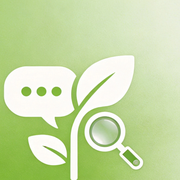
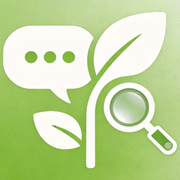
fix: centre the mark in its own frame, and put the full lockup on the auth screens
The mark sat low beside the wordmark because it was low: the exported
square had ten pixels of margin above the artwork and none below, the
stem clipped flush against the bottom edge. The square was cut out of the
source, so its size came from the mark's wider dimension and its bottom
edge ran into the wordmark, where it had to be clamped.

It is built on a transparent canvas now rather than cut out, which makes
the centring exact and independent of what happens to sit nearby in the
artwork. Both masks measure dead centre.

A speck of noise above the mark survived the opening — thicker than the
kernel, so thickness was the wrong test. Components below a minimum area
are dropped instead, which also tightened the lockup's bounds: it had
been reserving space for a dot of grain.

The auth screens get the whole lockup, wordmark and all, above the card.
They are the first thing anybody sees and the header is not on screen
until they are through it.

A mask has no intrinsic size, so the lockup's aspect ratio lives in the
stylesheet by hand. The script now prints the value it just produced,
because the two drift silently otherwise — the mask would simply
letterbox itself inside a box of the wrong shape.

diff --git a/web/src/screens/auth/AuthShell.tsx b/web/src/screens/auth/AuthShell.tsx
@@ -21,8 +21,17 @@ export function AuthShell({
   footer?: ReactNode;
 }) {
   return (
-    <main className="flex min-h-svh items-center justify-center p-6">
-      <Card className="w-full max-w-md">
+    <main className="grid min-h-svh place-items-center gap-6 p-6">
+      {/* The whole lockup, wordmark and all, above the card rather than inside it. These
+          screens are the first thing anybody sees, and until they sign in the header — the
+          only other place the logo appears — is not on screen, so this is where the
+          application gets to introduce itself.
+
+          Decorative: the wordmark is a picture of the word and the heading below is the
+          text. A screen reader should hear the application named once. */}
+      <span aria-hidden="true" className="logo-lockup w-48 shrink-0 self-end" />
+
+      <Card className="w-full max-w-md self-start">
         <CardHeader>
           {/* A real heading, not a styled div. It is the only h1 on the page and it is
               what a screen reader's heading navigation lands on. */}

diff --git a/web/src/styles/index.css b/web/src/styles/index.css
@@ -103,12 +103,25 @@
    So the PNG is used for its alpha alone and the colour comes from `currentColor` — the
    very dark green the light theme already uses for text, and the pale ink the dark theme
    uses. One asset, both themes, and it follows the palette if the palette changes. */
-.logo-mark {
+.logo-mark,
+.logo-lockup {
   background-color: currentColor;
-  mask-image: url("/logo-mark.png");
   mask-size: contain;
   mask-repeat: no-repeat;
   mask-position: center;
+}
+
+/* The mark alone, square, for places that sit beside a word already saying "Plantopia". */
+.logo-mark {
+  mask-image: url("/logo-mark.png");
+}
+
+/* Mark and wordmark together, as the artwork was drawn.
+   A mask has no intrinsic size, so the ratio lives here by hand and has to match the file.
+   `design/extract_logo_assets.py` prints the value to use whenever it regenerates. */
+.logo-lockup {
+  aspect-ratio: 640 / 604;
+  mask-image: url("/logo-lockup.png");
 }
 
 @theme inline {

diff --git a/design/extract_logo_assets.py b/design/extract_logo_assets.py
@@ -39,6 +39,10 @@ PUBLIC = ROOT / "web" / "public"
 # `np.flatnonzero((alpha > 0.5).any(axis=1))` is it.
 WORDMARK_TOP = 1285
 
+# The first row of the lettering itself. Between this and `WORDMARK_TOP` is empty
+# background, and the square above is allowed to reach into it but no further.
+WORDMARK_LETTERS = 1353
+
 # Below +8 on `g - b` a pixel is the mark; above +22 it is background; between the two it is
 # an edge, and the ramp is what keeps those edges smooth rather than jagged.
 NEUTRAL = 8.0
@@ -62,49 +66,125 @@ def silhouette(rgb: np.ndarray) -> np.ndarray:
     alpha[np.asarray(reachable)[1:-1, 1:-1] == 128] = 0
 
     # The pale corner is grainy, and grain that is not border-connected survives as speckle.
-    # An opening deletes anything thinner than the kernel; the mark's thinnest part, the
-    # stem, is far thicker.
+    # An opening deletes anything thinner than the kernel, which removes most of it.
     binary = Image.fromarray(((alpha > 0.35) * 255).astype(np.uint8), "L")
     opened = binary.filter(ImageFilter.MinFilter(9)).filter(ImageFilter.MaxFilter(9))
-    return alpha * (np.asarray(opened.filter(ImageFilter.MaxFilter(5))) > 127)
+    alpha = alpha * (np.asarray(opened.filter(ImageFilter.MaxFilter(5))) > 127)
+
+    # Most, not all: a speck thicker than the kernel outlives it, and one did — a dot of
+    # noise floating above the mark, which is visible on screen and quietly widens the crop
+    # around the artwork. Thickness is the wrong test for it; size is the right one. The
+    # wordmark's smallest piece is the dot on the "i", so the floor sits well below that.
+    return _drop_specks(alpha, min_area=alpha.size // 4000)
 
 
-def square_around_the_mark(alpha: np.ndarray, width: int, pad: int = 24) -> tuple[int, ...]:
-    """The smallest square holding the mark, so it keeps its proportions at any size."""
+def _drop_specks(alpha: np.ndarray, min_area: int) -> np.ndarray:
+    """Zero every run of ink smaller than `min_area` pixels."""
+    canvas = Image.fromarray(((alpha > 0.35) * 255).astype(np.uint8), "L")
+    pixels = np.asarray(canvas)
+
+    kept = np.zeros_like(pixels, dtype=bool)
+    while True:
+        remaining = np.argwhere(np.asarray(canvas) == 255)
+        if not len(remaining):
+            break
+        y, x = remaining[0]
+        ImageDraw.floodfill(canvas, (int(x), int(y)), 64, thresh=0)
+        blob = np.asarray(canvas) == 64
+        if blob.sum() >= min_area:
+            kept |= blob
+        # Mark it seen either way, so the next pass finds a different blob.
+        canvas.paste(Image.new("L", canvas.size, 128), (0, 0), Image.fromarray(blob))
+
+    return alpha * kept
+
+
+def mark_bounds(alpha: np.ndarray) -> tuple[int, ...]:
+    """Exactly the mark, no margin: everything with ink in it above the wordmark."""
     above = alpha[:WORDMARK_TOP]
     rows = np.flatnonzero((above > 0.5).any(axis=1))
     cols = np.flatnonzero((above > 0.5).any(axis=0))
-    top, bottom = max(0, rows[0] - pad), min(WORDMARK_TOP, rows[-1] + pad)
-    left, right = max(0, cols[0] - pad), min(width, cols[-1] + pad)
+    return (cols[0], rows[0], cols[-1] + 1, rows[-1] + 1)
 
-    half = max(bottom - top, right - left) // 2
-    centre_y, centre_x = (top + bottom) // 2, (left + right) // 2
-    return (centre_x - half, centre_y - half, centre_x + half, centre_y + half)
+
+def centred_square(mask: Image.Image, pad_fraction: float = 0.04) -> Image.Image:
+    """The mask centred on a transparent square, with an equal margin on every side.
+
+    Built rather than cropped. Cutting a square out of the source meant the square's size
+    was driven by the mark's wider dimension, which pushed its bottom edge down into the
+    wordmark — and clamping that edge is what left the mark flush against the bottom of its
+    own frame, reading as low beside any text it sat next to. Pasting onto a canvas makes
+    the centring exact and independent of what happens to be nearby in the artwork.
+    """
+    side = round(max(mask.width, mask.height) * (1 + 2 * pad_fraction))
+    square = Image.new("RGBA", (side, side), (255, 255, 255, 0))
+    square.paste(mask, ((side - mask.width) // 2, (side - mask.height) // 2))
+    return square
+
+
+def _mask(alpha: np.ndarray, box: tuple[int, ...]) -> Image.Image:
+    """The alpha inside `box` as an image, white throughout: a mask reads nothing else."""
+    cut = alpha[box[1] : box[3], box[0] : box[2]]
+    shape = np.zeros((*cut.shape, 4), dtype=np.uint8)
+    shape[..., :3] = 255
+    shape[..., 3] = (cut * 255).astype(np.uint8)
+    return Image.fromarray(shape, "RGBA")
+
+
+def _bounds(alpha: np.ndarray, width: int, height: int, pad: int = 20) -> tuple[int, ...]:
+    """Everything with ink in it, plus an equal margin."""
+    rows = np.flatnonzero((alpha > 0.5).any(axis=1))
+    cols = np.flatnonzero((alpha > 0.5).any(axis=0))
+    return (
+        max(0, cols[0] - pad),
+        max(0, rows[0] - pad),
+        min(width, cols[-1] + pad),
+        min(height, rows[-1] + pad),
+    )
 
 
 def main() -> None:
     image = Image.open(SOURCE).convert("RGB")
     rgb = np.asarray(image).astype(np.float32)
     alpha = silhouette(rgb)
-    box = square_around_the_mark(alpha, image.width)
+    box = mark_bounds(alpha)
 
     PUBLIC.mkdir(parents=True, exist_ok=True)
 
-    mark = alpha[box[1] : box[3], box[0] : box[2]]
-    shape = np.zeros((*mark.shape, 4), dtype=np.uint8)
-    shape[..., :3] = 255  # White, because a mask reads nothing but the alpha.
-    shape[..., 3] = (mark * 255).astype(np.uint8)
-    Image.fromarray(shape, "RGBA").resize((512, 512), Image.LANCZOS).save(PUBLIC / "logo-mark.png")
+    centred_square(_mask(alpha, box)).resize((512, 512), Image.LANCZOS).save(
+        PUBLIC / "logo-mark.png"
+    )
+
+    # The whole lockup — mark and wordmark together — for the screens that have room for
+    # it. Not square: cropped to its own bounds with an equal margin, so the proportions
+    # come from the artwork rather than from a frame chosen here.
+    lockup = _mask(alpha, _bounds(alpha, image.width, image.height))
+    lockup.resize((640, round(640 * lockup.height / lockup.width)), Image.LANCZOS).save(
+        PUBLIC / "logo-lockup.png"
+    )
 
     # 128px, not 512: a tab icon is drawn at 16-32 CSS pixels, and 512 of a gradient was a
     # third of a megabyte for a thumbnail nobody ever sees full size.
-    tile = image.crop(box)
+    # The tile is a crop of the artwork itself, so unlike the masks it cannot be built on a
+    # canvas — it needs real pixels behind the mark. Squared around the mark and held above
+    # the lettering, which costs a few pixels of symmetry nobody can see at 32px.
+    side = max(box[2] - box[0], box[3] - box[1])
+    centre_x, centre_y = (box[0] + box[2]) // 2, (box[1] + box[3]) // 2
+    half = min(side // 2 + 24, WORDMARK_LETTERS - centre_y - 1)
+    tile = image.crop((centre_x - half, centre_y - half, centre_x + half, centre_y + half))
     tile.resize((128, 128), Image.LANCZOS).save(PUBLIC / "favicon.png", optimize=True)
     tile.resize((180, 180), Image.LANCZOS).save(PUBLIC / "apple-touch-icon.png", optimize=True)
 
-    for name in ("logo-mark.png", "favicon.png", "apple-touch-icon.png"):
+    for name in ("logo-mark.png", "logo-lockup.png", "favicon.png", "apple-touch-icon.png"):
         written = PUBLIC / name
         print(f"  {name:22} {written.stat().st_size / 1024:6.1f} kB")
+
+    # A mask has no intrinsic size, so `.logo-lockup` in the stylesheet carries this ratio
+    # by hand. Printed here because the two drift silently otherwise: the mask would simply
+    # letterbox itself inside a box of the wrong shape.
+    made = Image.open(PUBLIC / "logo-lockup.png")
+    print()
+    print(f"  .logo-lockup in index.css needs: aspect-ratio: {made.width} / {made.height};")
 
 
 if __name__ == "__main__":
